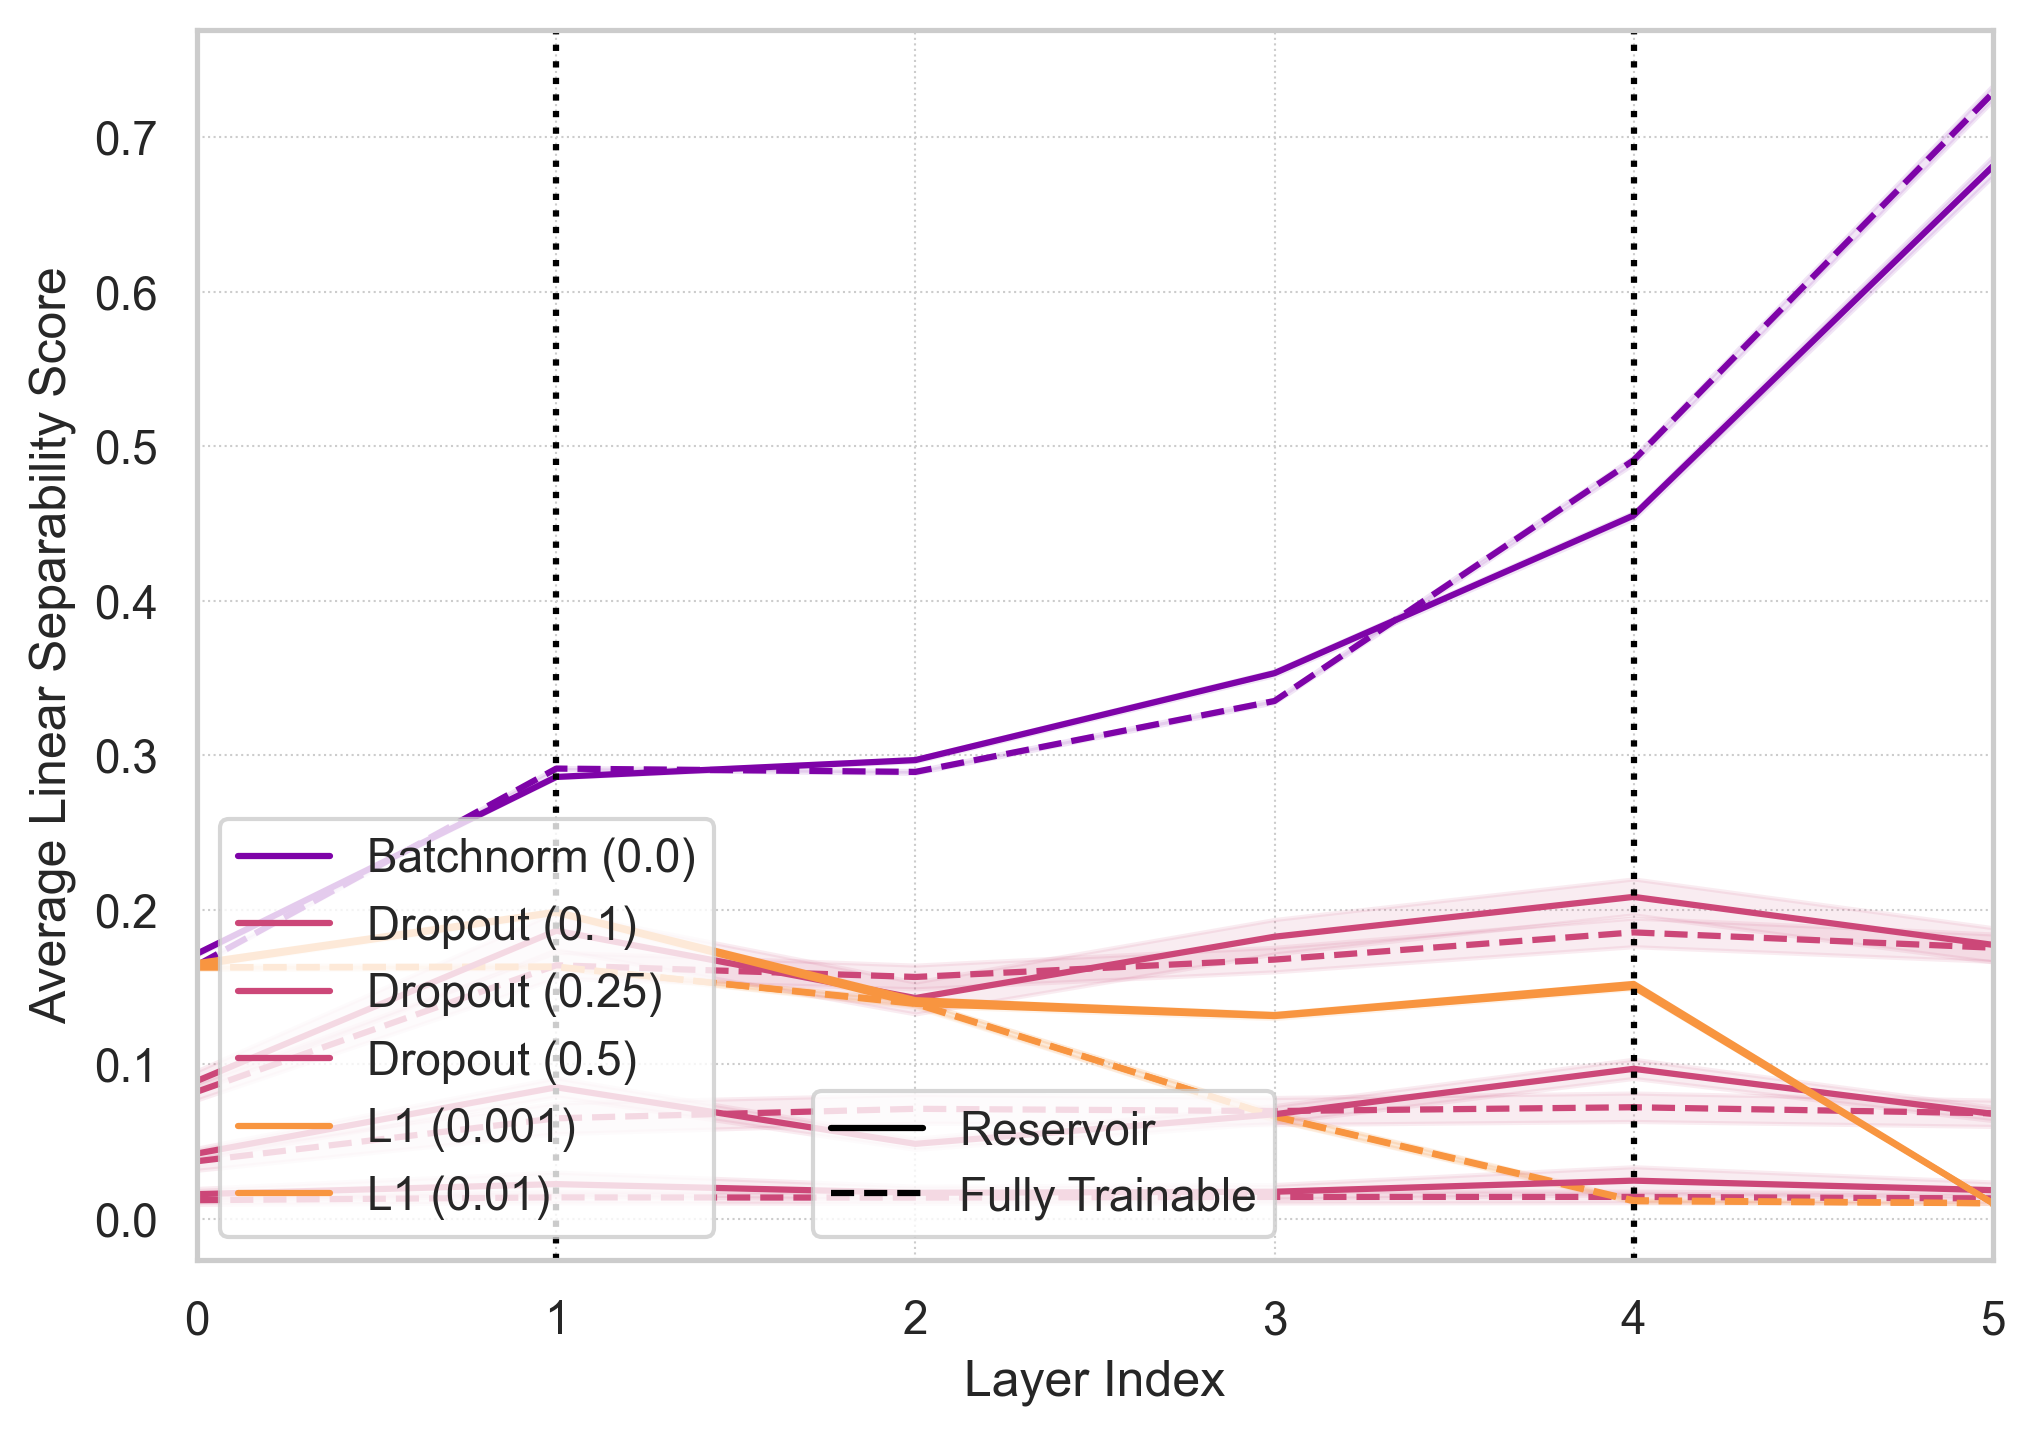
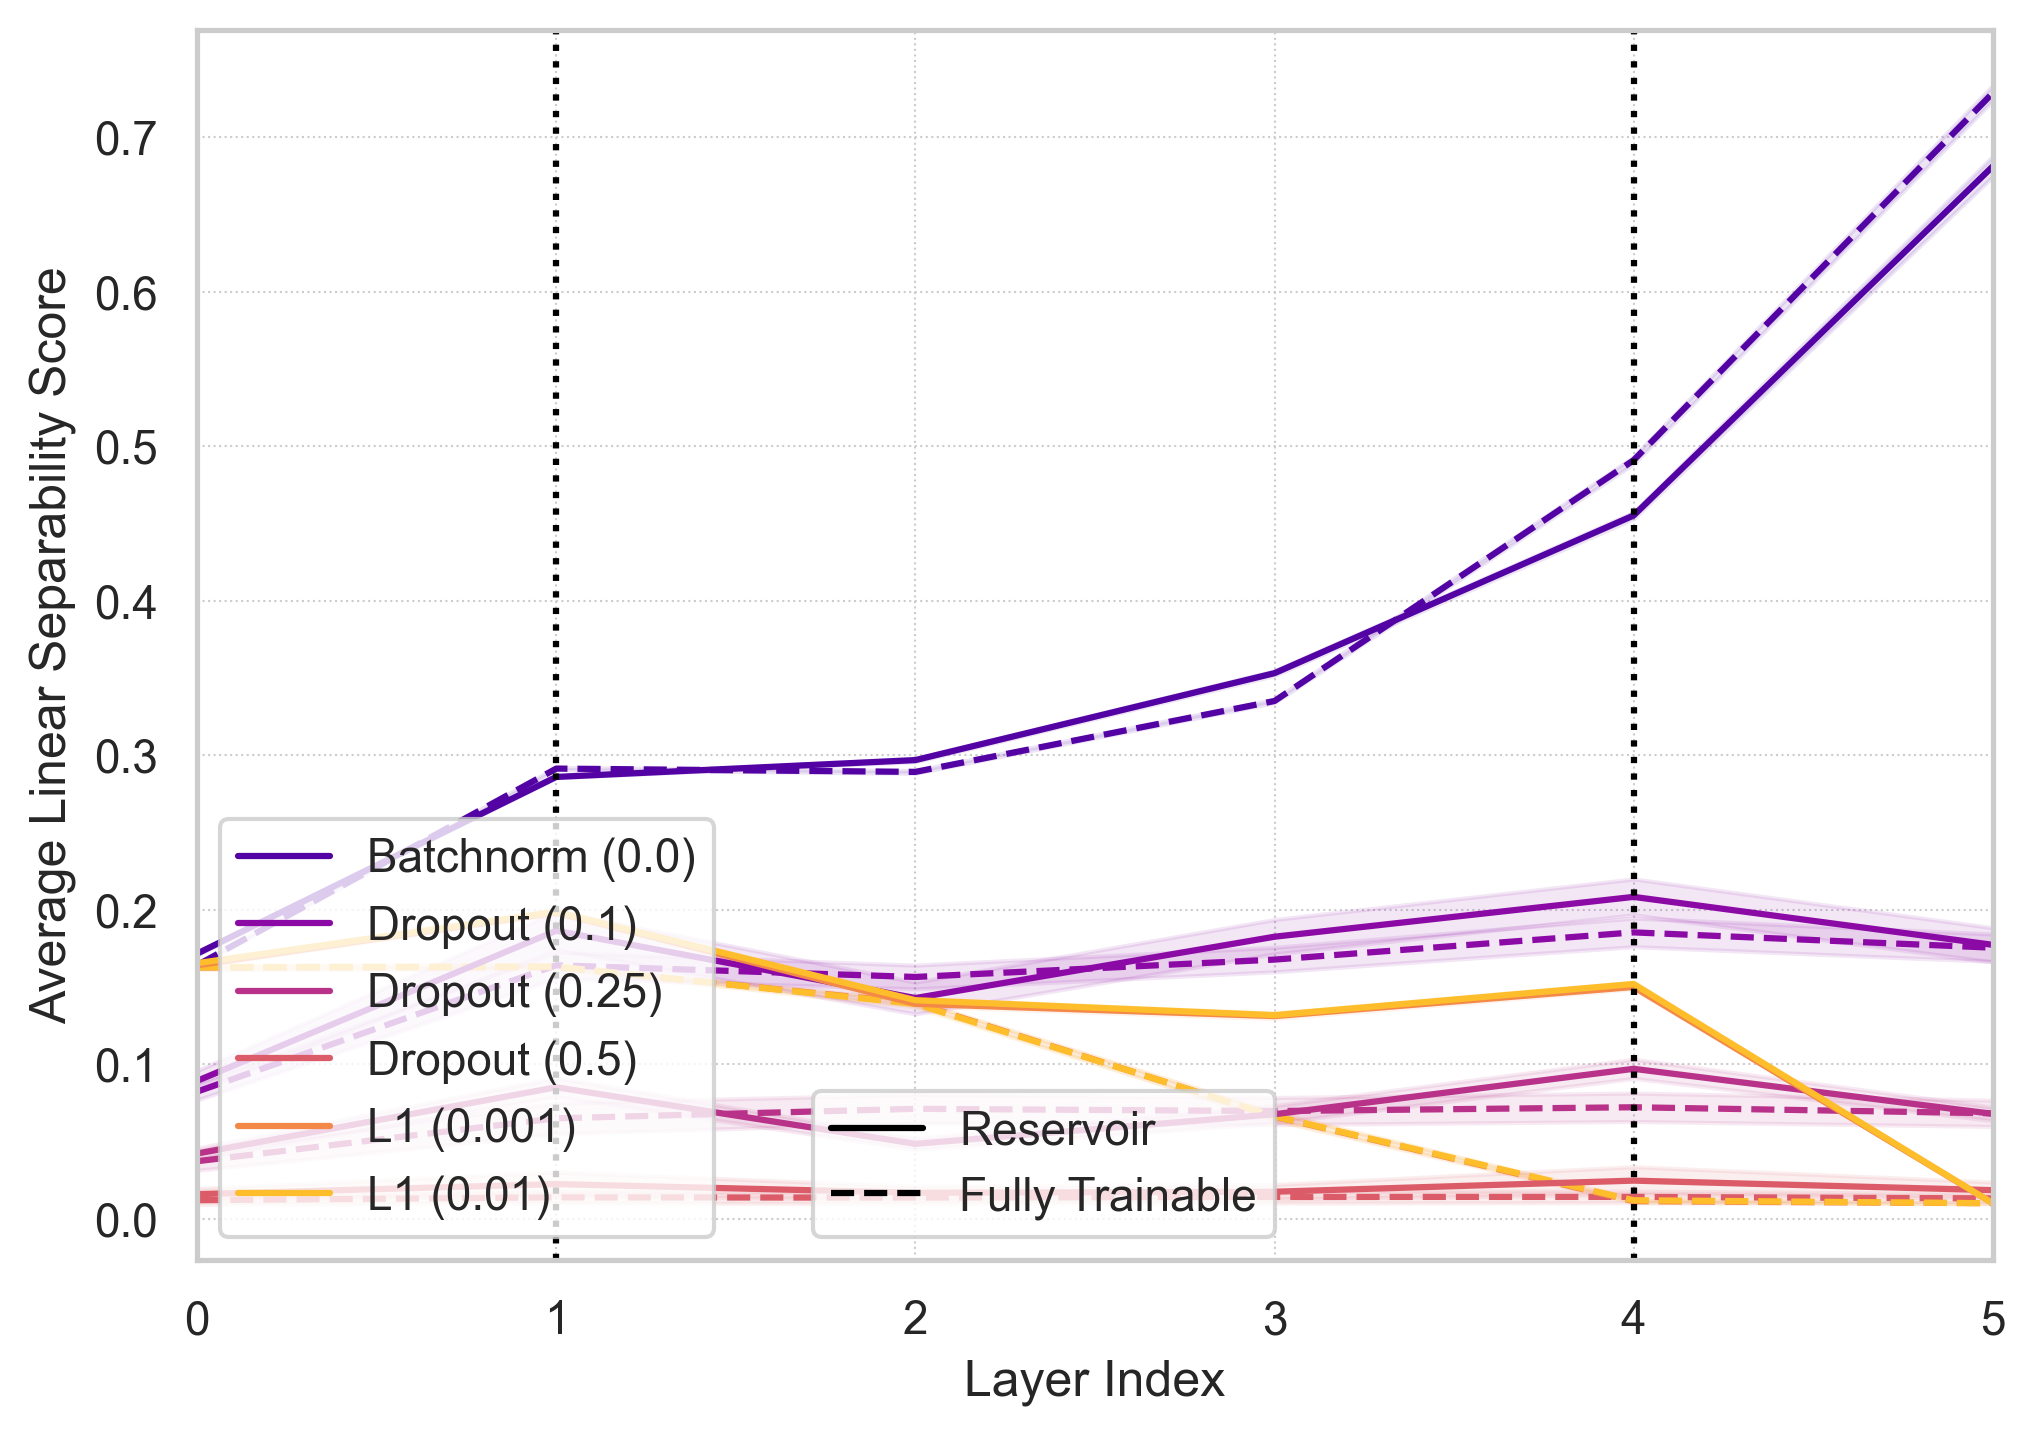
Corrected error plotting all amounts of regularization with the same color

diff --git a/Code/visualizations.py b/Code/visualizations.py
@@ -494,17 +494,28 @@ def visualize_regularization(csv_file, base_dataset, filter_type="all", data_typ
     plt.figure(figsize=(7, 5))
     plt.rcParams.update({'font.size': 14})  # Adjust the size as needed
 
-    colors = sns.color_palette("plasma", n_colors=plot_df['regularization_type'].nunique())
-    color_map = {reg_type: colors[i] for i, reg_type in enumerate(sorted(plot_df['regularization_type'].unique()))}
+    # --- Corrected code for unique colors starts here ---
+    
+    # Create a unique identifier for each regularization type and amount combination
+    plot_df['reg_id'] = plot_df['regularization_type'] + '_' + plot_df['regularization_amount'].astype(str)
+    unique_reg_ids = sorted(plot_df['reg_id'].unique())
+    
+    # Generate a color palette with enough unique colors
+    colors = sns.color_palette("plasma", n_colors=len(unique_reg_ids))
+    color_map = {reg_id: colors[i] for i, reg_id in enumerate(unique_reg_ids)}
 
+    # Plot the data using the unique reg_id for color
     for (frozen, reg_type, reg_amount), group in plot_df.groupby(['frozen', 'regularization_type', 'regularization_amount']):
-        color = color_map[reg_type]
+        reg_id = f"{reg_type}_{reg_amount}"
+        color = color_map[reg_id]
         linestyle = 'solid' if frozen else 'dashed'
         label = f"{reg_type.capitalize()} ({reg_amount})"
         plt.plot(group["layer"], group["mean_separability"],
                  label=label,
                  color=color, linestyle=linestyle, alpha=1)
         plt.fill_between(group["layer"], group["lower_ci"], group["upper_ci"], color=color, alpha=0.1)
+
+    # --- Corrected code for unique colors ends here ---
 
     for layer in range(1, 6, 3):
         plt.axvline(x=layer, color='black', linestyle='dotted', linewidth=1.5)
@@ -520,11 +531,13 @@ def visualize_regularization(csv_file, base_dataset, filter_type="all", data_typ
     frozen_legend = [plt.Line2D([0], [0], color='black', linestyle='solid', label="Reservoir"),
                      plt.Line2D([0], [0], color='black', linestyle='dashed', label="Fully Trainable")]
 
-    # Sort the DataFrame by regularization type and amount
+    # Sort the DataFrame by the unique regularization identifier for consistent legend order
     sorted_reg_df = plot_df[['regularization_type', 'regularization_amount']].drop_duplicates().sort_values(by=['regularization_type', 'regularization_amount'])
-    regularization_legend = [plt.Line2D([0], [0], color=color_map[row['regularization_type']], linestyle='solid',
+    sorted_reg_df['reg_id'] = sorted_reg_df['regularization_type'] + '_' + sorted_reg_df['regularization_amount'].astype(str)
+    
+    regularization_legend = [plt.Line2D([0], [0], color=color_map[row['reg_id']], linestyle='solid',
                                          label=f"{row['regularization_type'].capitalize()} ({row['regularization_amount']})")
-                             for _, row in sorted_reg_df.iterrows()]
+                               for _, row in sorted_reg_df.iterrows()]
 
     # Combine legends side-by-side inside the plot
     legend1 = plt.legend(handles=frozen_legend, loc='lower left', frameon=True, bbox_to_anchor=(0.33, 0))
